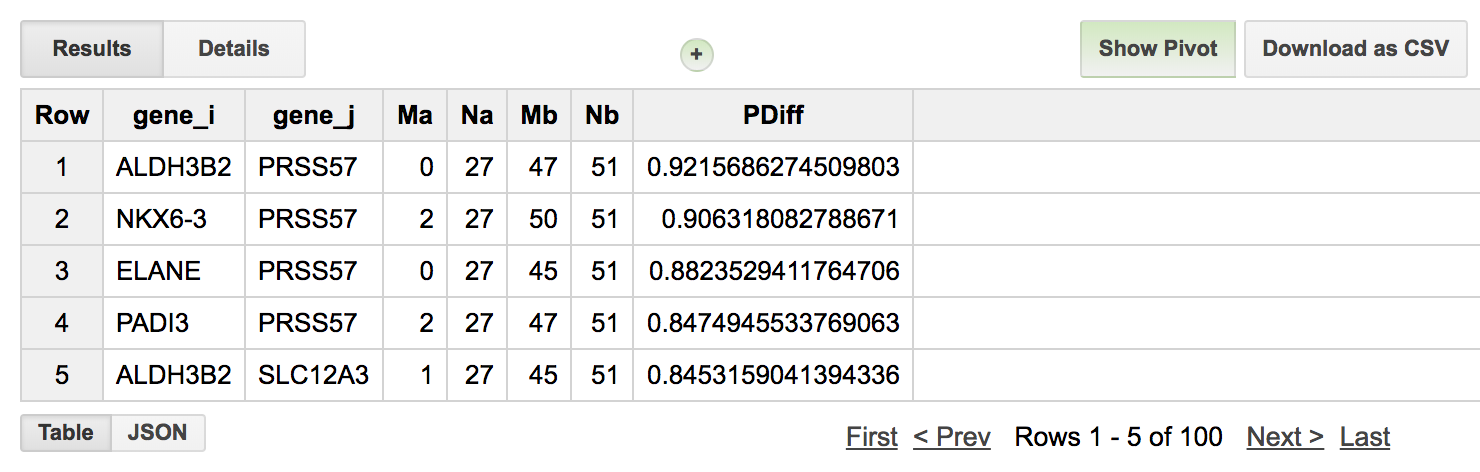
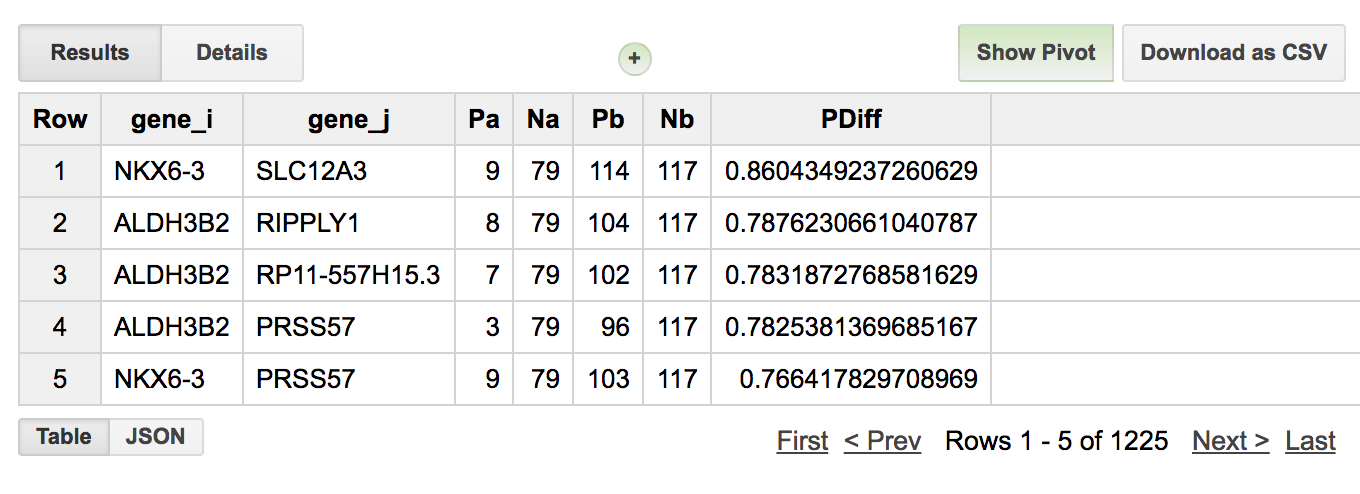
mar291059

diff --git a/docs/source/sections/QueryOfTheMonthClub_dev_march.rst b/docs/source/sections/QueryOfTheMonthClub_dev_march.rst
@@ -107,7 +107,7 @@ Then :math:`Δij` is used as a criterion to produce a ranking of gene pairs,
 and a series of gene pairs is established, determining the order
 in which they are to be subsequently evaluated.
 
-For reference see `this. <https://bmcbioinformatics.biomedcentral.com/articles/10.1186/1471-2105-12-375>`_
+For reference see `this. <https://www.ncbi.nlm.nih.gov/pmc/articles/PMC1989150/>`_
 
 First let's produce some simulated data for testing.
 
@@ -185,8 +185,9 @@ OK, let's walk through this TSP query.
       ON
         a.Gene < b.Gene
         AND a.ID = b.ID
-        AND a.Phenotype = 0
-        AND b.Phenotype = 0
+      WHERE
+        a.Phenotype = 1
+        AND b.Phenotype = 1
       GROUP BY
         a.Gene,
         b.Gene,
@@ -230,7 +231,8 @@ OK, let's walk through this TSP query.
       ON
         a.Gene < b.Gene
         AND a.ID = b.ID
-        AND a.Phenotype = 1
+      WHERE
+        a.Phenotype = 1
         AND b.Phenotype = 1
       GROUP BY
         a.Gene,
@@ -277,7 +279,6 @@ OK, let's walk through this TSP query.
       AND a.Genej = b.Genej
     ORDER BY
       PDiff DESC
-
 
 Running this query returns a table that is ordered by the P difference (the
 pair of genes that best separates the classes in 'rank-space'). As a note,
@@ -371,6 +372,7 @@ correctly.
 
 
 Let's make a few small changes, and apply it to TCGA expression data!
+First we'll create our data set, then we'll apply TSP on it.
 
 .. code-block:: sql
 
@@ -388,9 +390,9 @@ Let's make a few small changes, and apply it to TCGA expression data!
   FROM
     `isb-cgc.TCGA_hg38_data_v0.RNAseq_Gene_Expression`
   WHERE
-    HTSeq__FPKM_UQ > 0 AND
+    HTSeq__FPKM_UQ > 0
     AND REGEXP_CONTAINS(sample_barcode, '-01A')
-    (project_short_name = 'TCGA-PAAD'
+    AND (project_short_name = 'TCGA-PAAD'
      OR project_short_name = 'TCGA-KIRP')
     AND (NOT (REGEXP_CONTAINS(gene_name, 'MT-')
         OR REGEXP_CONTAINS(gene_name, 'RN7')
@@ -453,11 +455,10 @@ Let's make a few small changes, and apply it to TCGA expression data!
     sample_barcode,
     project_short_name,
     Gene,
-    Expr ),
+    Expr )
   #
   # And we rank the gene expression and create a phenotype variable.
   #
-  GeneRanks AS (
   SELECT
     sample_barcode AS ID,
     project_short_name,
@@ -474,106 +475,122 @@ Let's make a few small changes, and apply it to TCGA expression data!
     project_short_name,
     Phenotype,
     Gene,
-    Expr ),
-  #
-  # Then let's generate the conditional probability for each
-  # pair of genes within Class 1
-  #
-  Class1GenePairs AS (
-  SELECT
-    a.Gene AS Genei,
-    b.Gene AS Genej,
-    a.ID AS IDa,
-    b.ID AS IDb,
-    a.ERank AS Eranka,
-    b.ERank AS Erankb
-  FROM
-    GeneRanks a
-  JOIN
-    GeneRanks b
-  ON
-    a.Gene < b.Gene
-    AND a.ID = b.ID
-    AND a.Phenotype = 0
-    AND b.Phenotype = 0
-  GROUP BY
-    a.Gene,
-    b.Gene,
-    a.ID,
-    b.ID,
-    a.ERank,
-    b.ERank ),
-  #
-  # Then, for each pair of genes,
-  # how many times does gene_i have lower rank
-  # than gene_j?
-  #
-  Class1Probs AS (
-  SELECT
-    Genei,
-    Genej,
-    SUM(CAST(Eranka > -1000 AS INT64)) AS N,
-    SUM(CAST(Eranka < Erankb AS INT64)) AS P
-  FROM
-    Class1GenePairs
-  WHERE
-    (Genei != Genej)
-  GROUP BY
-    Genei,
-    Genej ),
-  #
-  # Then pair up the genes in class2
-  #
-  Class2GenePairs AS (
-  SELECT
-    a.Gene AS Genei,
-    b.Gene AS Genej,
-    a.ID AS IDa,
-    b.ID AS IDb,
-    a.ERank AS Eranka,
-    b.ERank AS Erankb
-  FROM
-    GeneRanks a
-  JOIN
-    GeneRanks b
-  ON
-    a.Gene < b.Gene
-    AND a.ID = b.ID
-    AND a.Phenotype = 1
-    AND b.Phenotype = 1
-  GROUP BY
-    a.Gene,
-    b.Gene,
-    a.ID,
-    b.ID,
-    a.ERank,
-    b.ERank ),
-  #
-  # and get our conditional probabilities
-  #
-  Class2Probs AS (
-  SELECT
-    Genei,
-    Genej,
-    SUM(CAST(Eranka > -1000 AS INT64)) AS N,
-    SUM(CAST(Eranka < Erankb AS INT64)) AS P
-  FROM
-    Class2GenePairs
-  WHERE
-    (Genei != Genej)
-  GROUP BY
-    Genei,
-    Genej )
-  #
-  # and compute differences in conditional probs
-  #
-  Results AS (
+    Expr
+
+
+And I'll save that ranked table in the query of the month dataset as
+isb-cgc.QotM.paad_kirp_random_sample_1002.
+
+
+.. code-block:: sql
+
+  WITH
+    #
+    # Then let's generate the conditional probability for each
+    # pair of genes within Class 1
+    #
+    Class1GenePairs AS (
     SELECT
-      a.Genei AS gene_i,  # gene pair #1
-      a.Genej AS gene_j,  # gene pair #2
-      a.P AS Pa,      # number of pairs where gene #1 < gene #2 in group A
-      a.N AS Na,      # total number of pairs
-      b.P AS Pb,      # numbers for group B.
+      a.Gene AS Genei,
+      b.Gene AS Genej,
+      a.ID AS IDa,
+      b.ID AS IDb,
+      a.ERank AS Eranka,
+      b.ERank AS Erankb
+    FROM
+      `isb-cgc.QotM.paad_kirp_random_sample_1002` a
+    JOIN
+      `isb-cgc.QotM.paad_kirp_random_sample_1002` b
+    ON
+      a.Gene < b.Gene
+      AND a.ID = b.ID
+    WHERE
+      a.Phenotype = 0
+      AND b.Phenotype = 0
+    GROUP BY
+      a.Gene,
+      b.Gene,
+      a.ID,
+      b.ID,
+      a.ERank,
+      b.ERank ),
+    #
+    # Then, for each pair of genes,
+    # how many times does gene_i have lower rank
+    # than gene_j?
+    #
+    Class1Probs AS (
+    SELECT
+      Genei,
+      Genej,
+      SUM(CAST(Eranka > -1000 AS INT64)) AS N,
+      SUM(CAST(Eranka < Erankb AS INT64)) AS P
+    FROM
+      Class1GenePairs
+    WHERE
+      (Genei != Genej)
+    GROUP BY
+      Genei,
+      Genej ),
+    #
+    # Then pair up the genes in class2
+    #
+    Class2GenePairs AS (
+    SELECT
+      a.Gene AS Genei,
+      b.Gene AS Genej,
+      a.ID AS IDa,
+      b.ID AS IDb,
+      a.ERank AS Eranka,
+      b.ERank AS Erankb
+    FROM
+      `isb-cgc.QotM.paad_kirp_random_sample_1002` a
+    JOIN
+      `isb-cgc.QotM.paad_kirp_random_sample_1002` b
+    ON
+      a.Gene < b.Gene
+      AND a.ID = b.ID
+    WHERE
+      a.Phenotype = 1
+      AND b.Phenotype = 1
+    GROUP BY
+      a.Gene,
+      b.Gene,
+      a.ID,
+      b.ID,
+      a.ERank,
+      b.ERank ),
+    #
+    # and get our conditional probabilities
+    #
+    Class2Probs AS (
+    SELECT
+      Genei,
+      Genej,
+      SUM(CAST(Eranka > -1000 AS INT64)) AS N,
+      SUM(CAST(Eranka < Erankb AS INT64)) AS P
+    FROM
+      Class2GenePairs
+    WHERE
+      (Genei != Genej)
+    GROUP BY
+      Genei,
+      Genej ),
+    #
+    # and compute differences in conditional probs
+    #
+    Results AS (
+    SELECT
+      a.Genei AS gene_i,
+      # gene pair #1
+      a.Genej AS gene_j,
+      # gene pair #2
+      a.P AS Pa,
+      # number of pairs where gene #1 < gene #2 in group A
+      a.N AS Na,
+      # total number of pairs
+      b.P AS Pb,
+      # numbers for group B.
       b.N AS Nb,
       ABS((a.P / a.N) - (b.P / b.N)) AS PDiff  # difference in conditional probabilities
     FROM
@@ -584,14 +601,45 @@ Let's make a few small changes, and apply it to TCGA expression data!
       a.Genei = b.Genei
       AND a.Genej = b.Genej
     ORDER BY
-      PDiff DESC
-      )
-  select * from Results
+      PDiff DESC )
+  SELECT
+    *
+  FROM
+    Results
 
 
 .. figure:: query_figs/march_pred_tcga_1.png
   :scale: 50
   :align: center
+
+So we see that the best pair of genes for
+separating these two studies are NKX6-3 and SLC12A3 and
+9/79 PAAD samples had expression ranking where (NKX6-3 < SLC12A3)
+and for KIRP samples 114/117 had a ranking where (NKX6-3 < SLC12A3). So
+it's doing a pretty good job!
+
+Let's check this gene pair with another random set of samples.
+To do that, I'll make another data table, similar to the above method,
+but pull out our top scoring pair of genes. Then check if the rank ordering
+is consistent within the two groups. This is a good exercise for the reader.
+You can use the following tables: isb-cgc.QotM.results_1002 and
+isb-cgc.QotM.paad_kirp_result_check
+
+When we see how we did, it's not terrible, but clearly there's room for
+improvement. Probably changing the way genes are selected would make a difference,
+and perhaps using more samples. Let me know if you give it a try!
+
+========= ===== ====
+Phenotype FALSE TRUE
+========= ===== ====
+TCGA-KIRP 5     119
+TCGA-PAAD 54    18
+========= ===== ====
+
+
+
+
+
 
 
 
